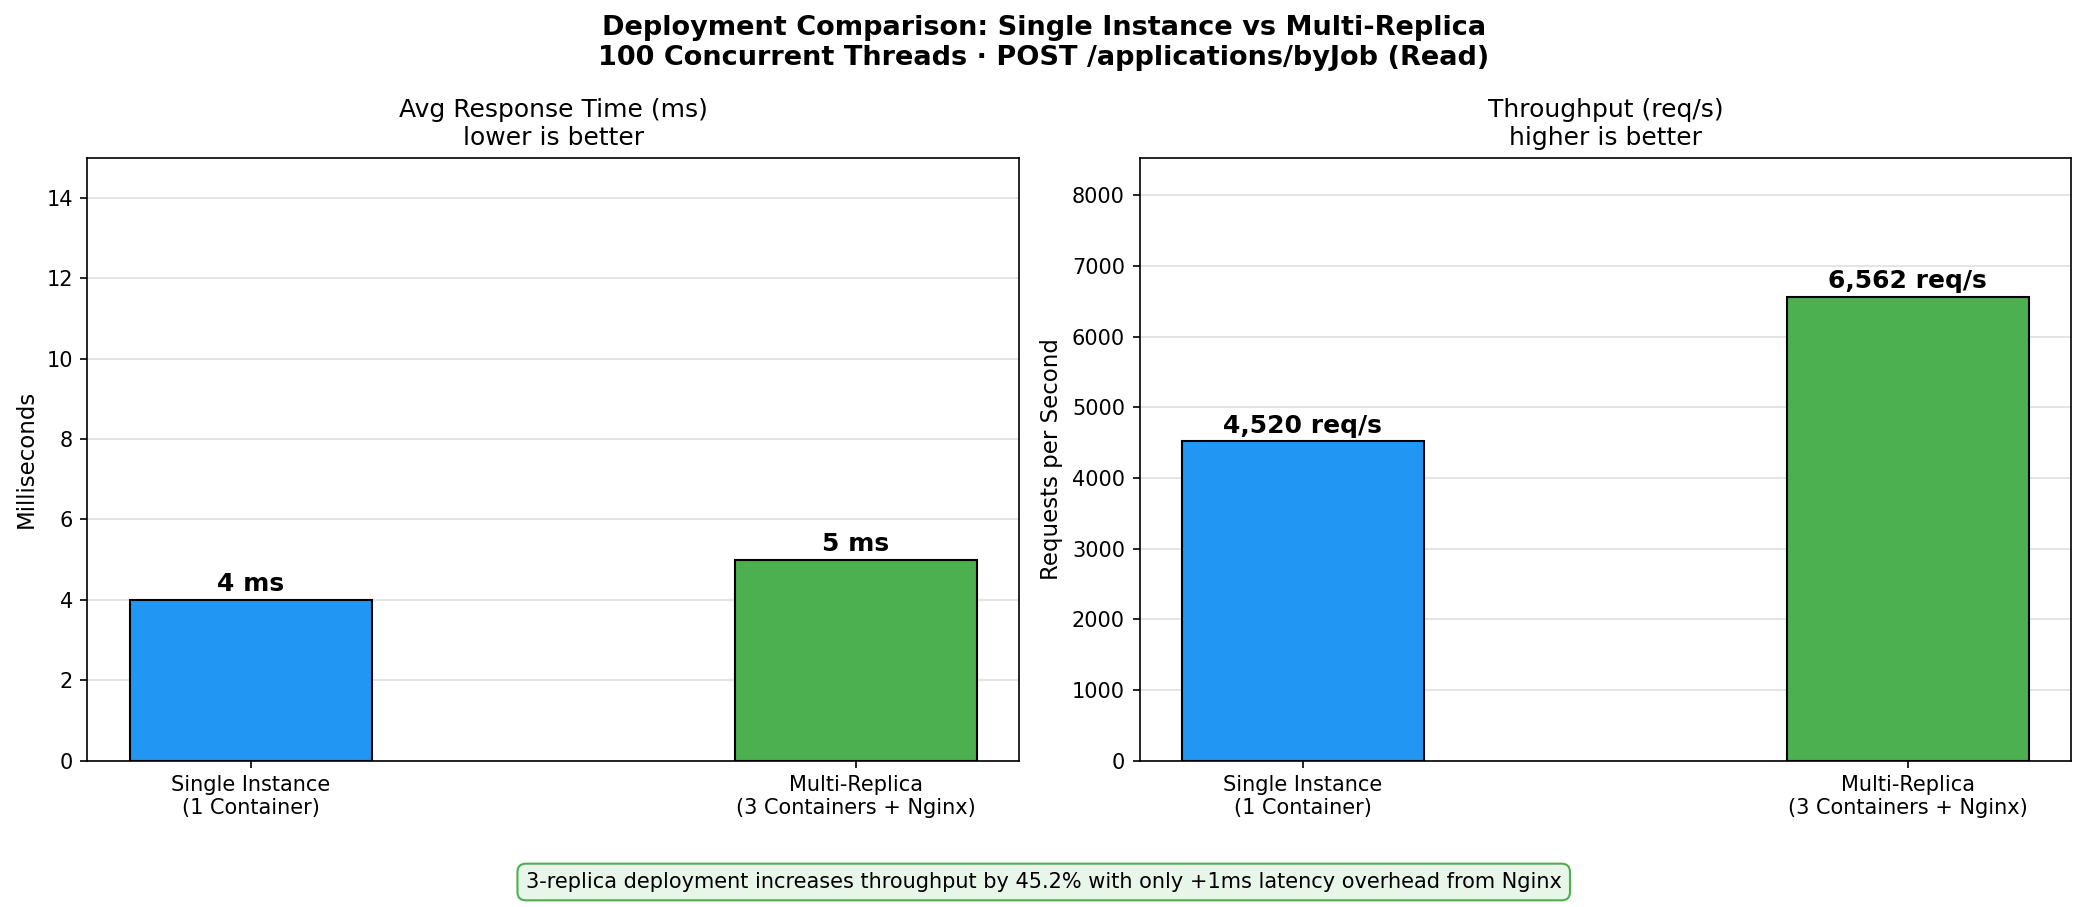
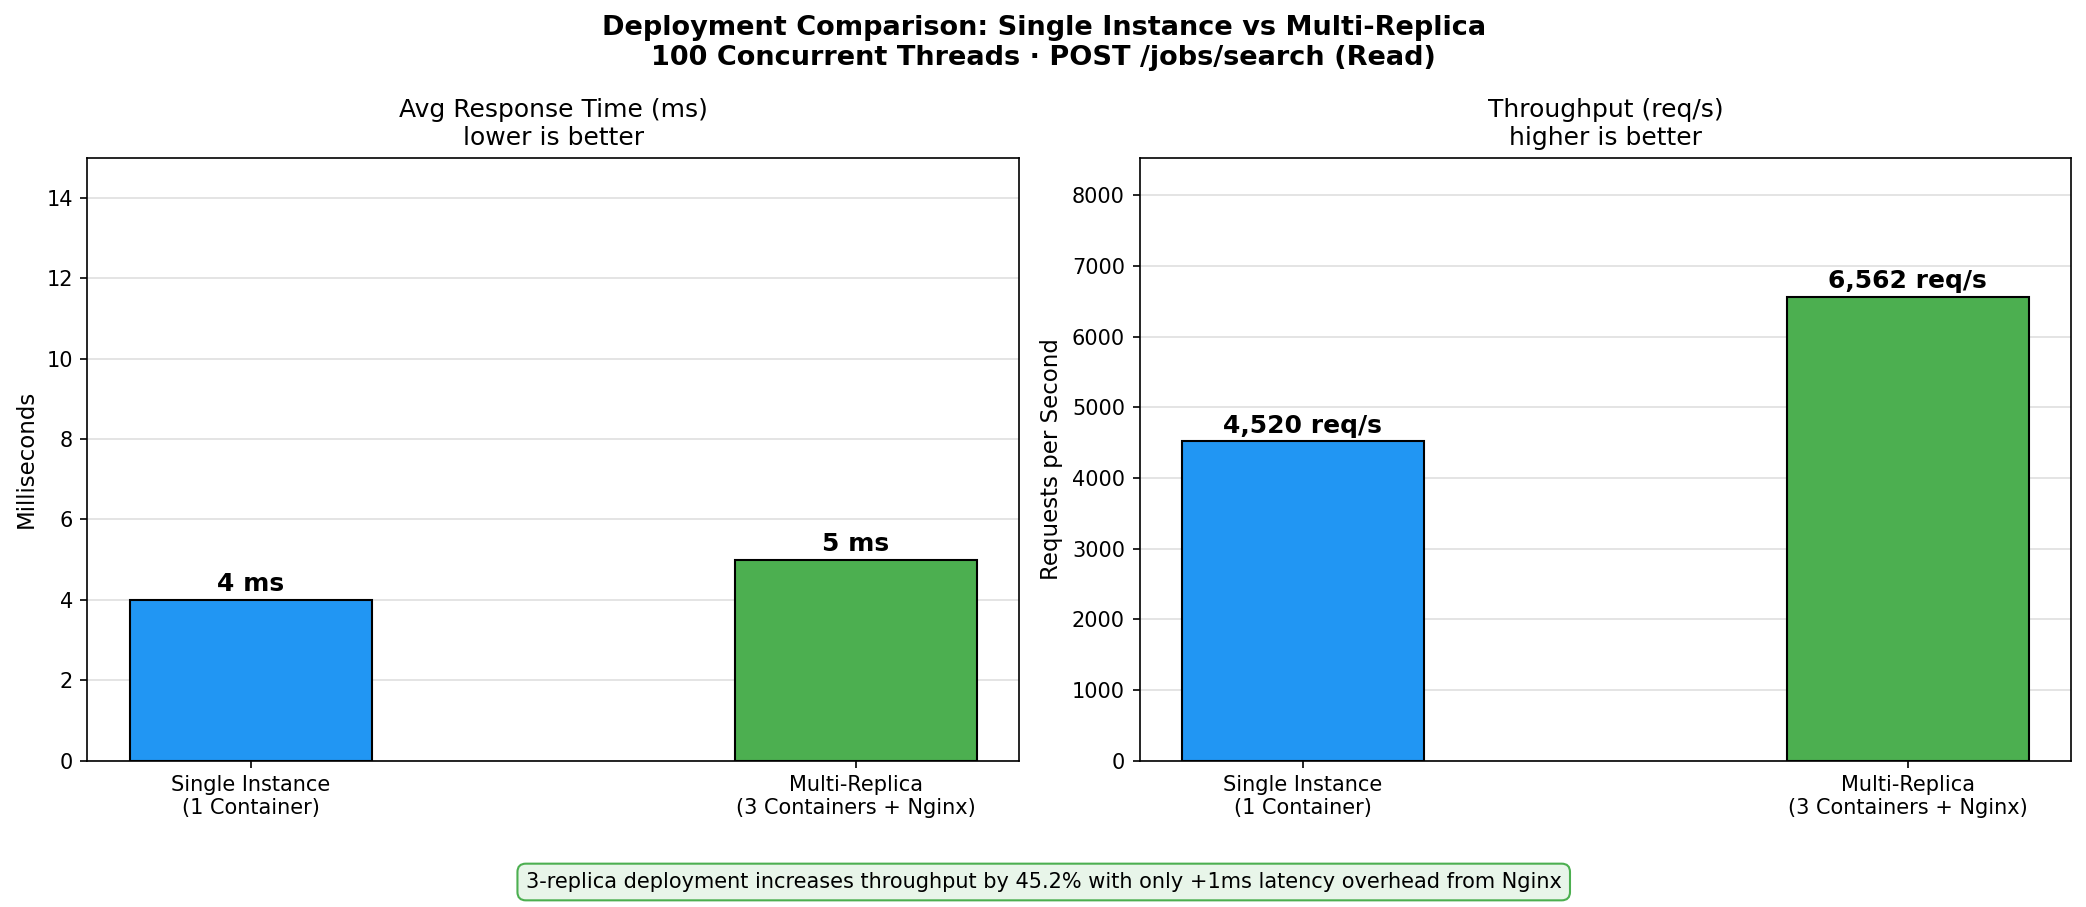
Fix JMeter benchmark chart labels, annotation bug, and overlap
- Relabel Scenario A endpoint from /applications/byJob to /jobs/search
- Fix +107796x annotation bug (was % ratio, now correct ~1079x multiplier)
- Replace overlapping B+S+K inline annotation with clean footnote box
- Fix deployment comparison subtitle to match Scenario A endpoint label

Changed region(s): [[0.2804, 0.0309, 0.7167, 0.0926]]

diff --git a/generate_chart.py b/generate_chart.py
@@ -38,8 +38,8 @@ CONFIGS = ['B', 'B+S', 'B+S+K', 'B+S+K+Other']
 CONFIG_COLORS = [COLORS['B'], COLORS['B+S'], COLORS['B+S+K'], COLORS['B+S+K+Other']]
 
 # ══════════════════════════════════════════════════════════════════════════════
-# SCENARIO A — POST /applications/byJob (Read Benchmark)
-# 50 threads, 60s duration, warm Redis cache for B+S and above
+# SCENARIO A — POST /jobs/search (Read Benchmark)
+# 100 threads, 60s duration, warm Redis cache for B+S and above
 # ══════════════════════════════════════════════════════════════════════════════
 
 scenario_A_latency    = [14884, 12, 3, 6]      # ms — lower is better
@@ -58,7 +58,7 @@ for bar, val in zip(bars, scenario_A_latency):
     ax.text(bar.get_x() + bar.get_width()/2, y_pos,
             label, ha='center', va='bottom', fontsize=10, fontweight='bold')
 
-ax.set_title('Scenario A — Avg Response Time\nPOST /applications/byJob | 100 Concurrent Threads',
+ax.set_title('Scenario A — Avg Response Time\nPOST /jobs/search | 100 Concurrent Threads',
              fontsize=13, fontweight='bold', pad=15)
 ax.set_xlabel('Configuration', fontsize=12)
 ax.set_ylabel('Avg Response Time (ms) — lower is better', fontsize=11)
@@ -90,7 +90,7 @@ for bar, val in zip(bars, scenario_A_throughput):
     ax.text(bar.get_x() + bar.get_width()/2, y_pos,
             label, ha='center', va='bottom', fontsize=10, fontweight='bold')
 
-ax.set_title('Scenario A — Throughput\nPOST /applications/byJob | 100 Concurrent Threads',
+ax.set_title('Scenario A — Throughput\nPOST /jobs/search | 100 Concurrent Threads',
              fontsize=13, fontweight='bold', pad=15)
 ax.set_xlabel('Configuration', fontsize=12)
 ax.set_ylabel('Throughput (req/s) — higher is better', fontsize=11)
@@ -98,15 +98,21 @@ ax.set_ylim(0, max(scenario_A_throughput) * 1.2)
 ax.grid(axis='y', alpha=0.4, zorder=0)
 ax.set_axisbelow(True)
 
-# Add improvement annotation
-improvement = ((scenario_A_throughput[1] - scenario_A_throughput[0]) / scenario_A_throughput[0]) * 100
-ax.annotate(f'+{improvement:.0f}x throughput\nwith Redis cache',
+# Multiplier: B+S / B (e.g. 3021.1 / 2.8 ≈ 1,079x)
+improvement_x = scenario_A_throughput[1] / scenario_A_throughput[0]
+ax.annotate(f'+{improvement_x:,.0f}x throughput\nwith Redis cache',
             xy=(1, scenario_A_throughput[1]),
             xytext=(2.2, scenario_A_throughput[1] * 0.7),
             arrowprops=dict(arrowstyle='->', color='green', lw=1.5),
             fontsize=9, color='green', ha='center')
 
-plt.tight_layout()
+# Explain B+S → B+S+K throughput drop as a footnote below the chart
+fig.text(0.5, 0.01,
+         '* B+S+K drop: Kafka job.viewed publish is awaited in the read path — adds per-request latency under concurrency',
+         ha='center', fontsize=8, color='#E65100',
+         bbox=dict(boxstyle='round,pad=0.3', facecolor='#FFF3E0', edgecolor='#E65100'))
+
+plt.tight_layout(rect=[0, 0.06, 1, 1])
 plt.savefig('charts/chart_scenario_A_throughput.png', dpi=150, bbox_inches='tight')
 plt.close()
 print('Saved: charts/chart_scenario_A_throughput.png')
@@ -195,7 +201,7 @@ deploy_colors     = [COLORS['single'], COLORS['multi']]
 # ── Chart 5: Deployment Comparison ───────────────────────────────────────────
 fig, (ax1, ax2) = plt.subplots(1, 2, figsize=(14, 6))
 fig.suptitle('Deployment Comparison: Single Instance vs Multi-Replica\n'
-             '100 Concurrent Threads · POST /applications/byJob (Read)',
+             '100 Concurrent Threads · POST /jobs/search (Read)',
              fontsize=13, fontweight='bold')
 
 # Latency
